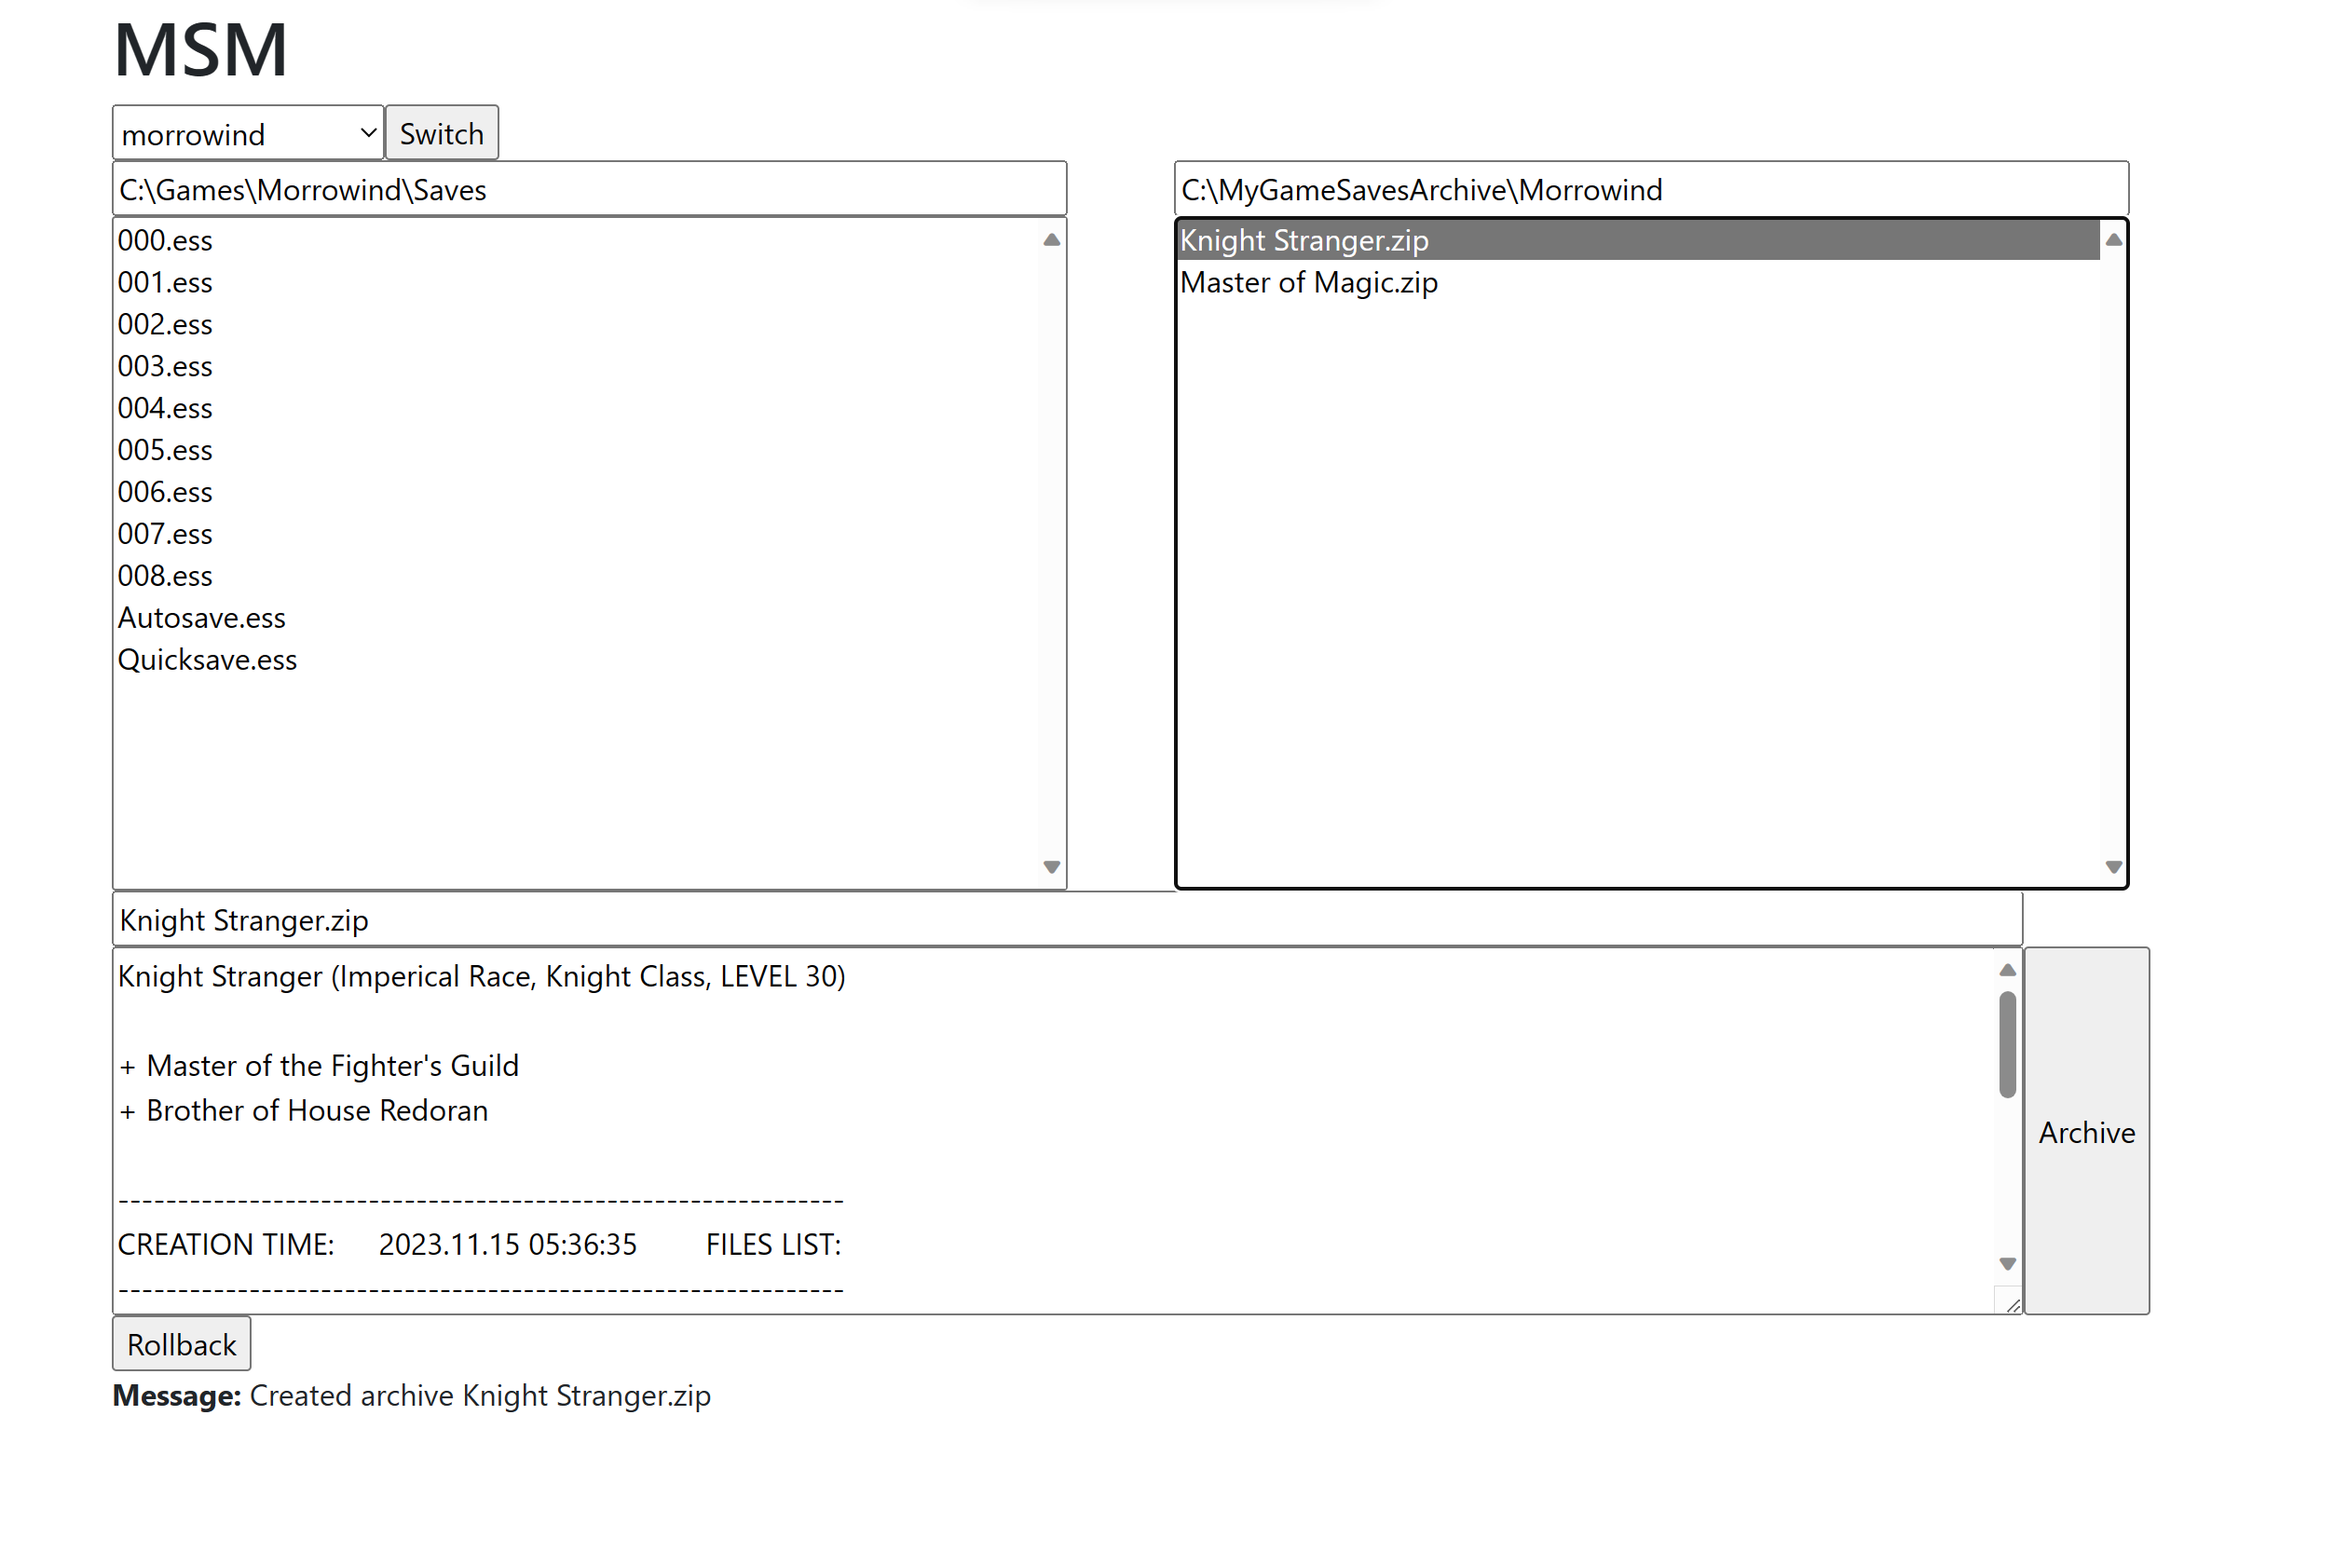
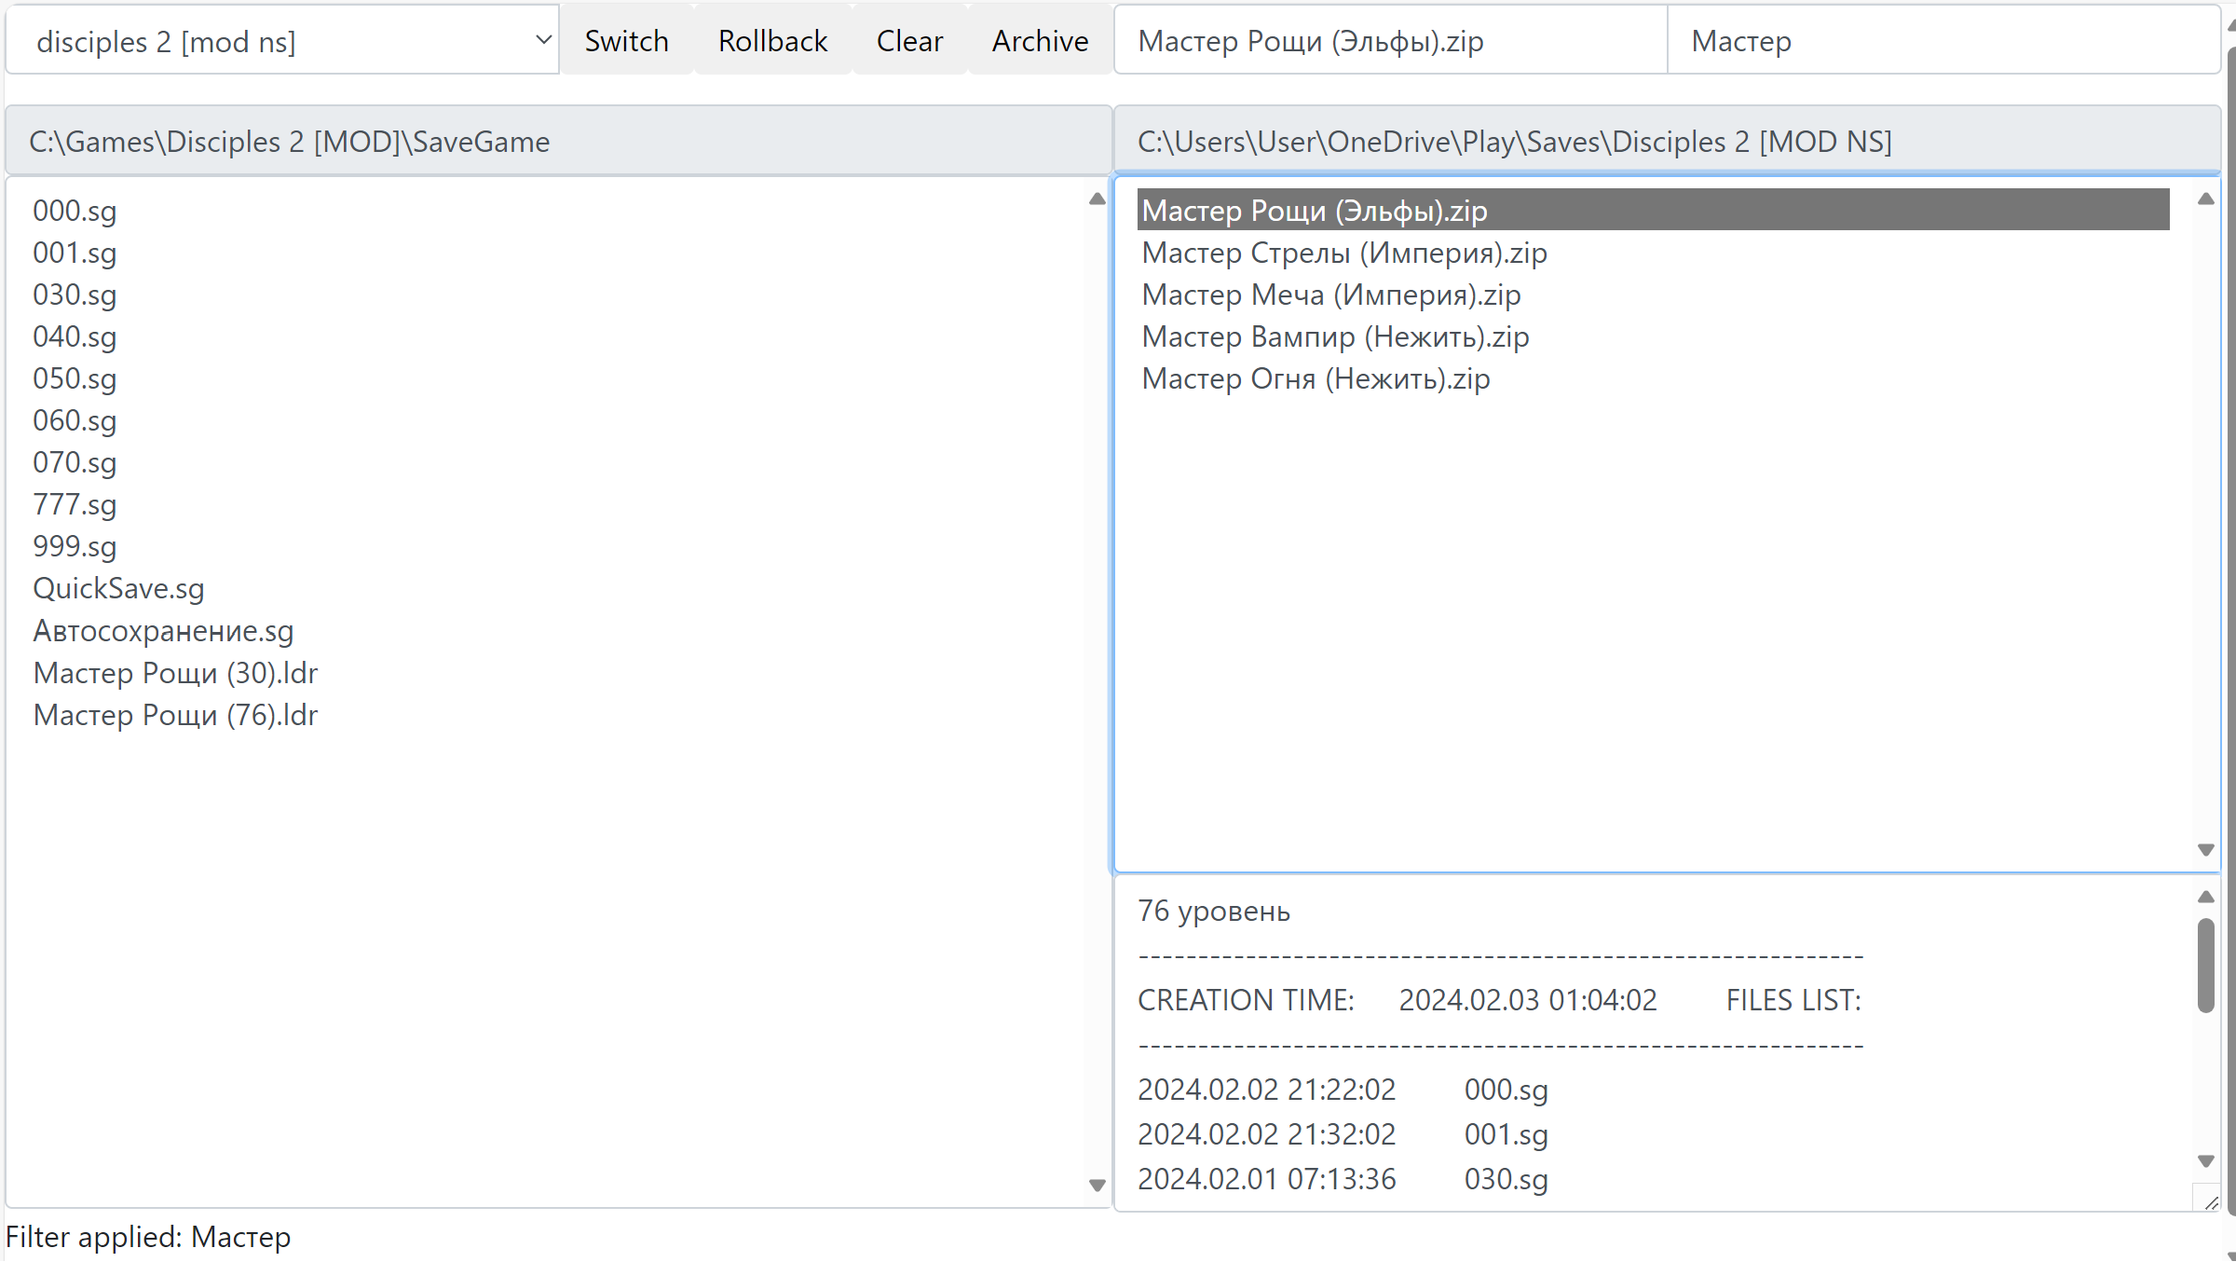
Adaptive Design, Archive Filter

diff --git a/msm/templates/main.html b/msm/templates/main.html
@@ -1,65 +1,106 @@
 <html>
-  <head>
-    <title>MSM</title>
-    <meta name="viewport" content="width=device-width, initial-scale=1.0">
-    <link href="{{ url_for('static', filename='bootstrap.min.css') }}" rel="stylesheet" media="screen">
-    <link rel="shortcut icon" href="{{ url_for('static', filename='favicon.ico') }}">
-  </head>
-  <body>
-    <div class="container">
-      <form action="" method="post">
-        <div class="row">
-          <div class="col">
-            <div class="row">
-              <select name="workspace"><option selected value="{{workspace.name}}">{{workspace.name}}</option>{% for o in workspaces.workspaces %}<option value="{{o.name}}">{{o.name}}</option>{% endfor %}</select>
-              <input type="submit" name="action" value="Switch">
-              <input type="submit" name="action" value="Rollback">
-              <input type="submit" name="action" value="Clear">          
-              <input type="submit" name="action" value="Archive">
-            </div>            
-            <div class="row">
-              <input type="text" placeholder="source_path" name="source_path" value="{{workspace.source_path}}" style="width:100%;max-width:90%;" >
-            </div>
-            <div class="row">
-              <select name="source_files" placeholder="source_files" size="24" style="width:100%;max-width:90%;" multiple="multiple">{% for o in workspace.source_files %}<option value="{{o}}">{{o}}</option>{% endfor %}</select>
+
+<head>
+  <title>MSM</title>
+  <meta name="viewport" content="width=device-width, initial-scale=1.0">
+  <link href="{{ url_for('static', filename='bootstrap.min.css') }}" rel="stylesheet" media="screen">
+  <link rel="shortcut icon" href="{{ url_for('static', filename='favicon.ico') }}">
+</head>
+
+<body>
+  <div class="container-fluid">
+    <form action="" method="post">
+      <div class="row">
+        <div class="col">
+          <div class="row">
+            <div class="input-group mb-3">
+              <select class="form-control" name="workspace">
+                <option selected value="{{workspace.name}}">{{workspace.name}}</option>{% for o in workspaces.workspaces
+                %}<option value="{{o.name}}">{{o.name}}</option>{% endfor %}
+              </select>
+              <input class="btn" type="submit" name="action" value="Switch">
+              <input class="btn" type="submit" name="action" value="Rollback">
+              <input class="btn" type="submit" name="action" value="Clear">
+              <input class="btn" type="submit" name="action" value="Archive">
             </div>
           </div>
-          <div class="col">
-            <div class="row">
-              <input type="text" placeholder="archive_name" name="archive_name" style="width:100%;max-width:90%;" value="{{request.form.archive_name}}">
-            </div>
-            <div class="row">
-              <input type="text" placeholder="archive_path" name="archive_path" value="{{workspace.destination_path}}" style="width:100%;max-width:90%;" >
-            </div>
-            <div class="row">
-              <select name="destination_files" placeholder="destination_files" size="16" style="width:100%;max-width:90%;">{% for o in workspace.destination_files %}<option value="{{o}}">{{o}}</option>{% endfor %}</select>
-            </div>
-            <div class="row">
-              <textarea rows="7" cols="45" placeholder="archive_comment" style="width:100%;max-width:90%;" name="archive_comment">{{request.form.archive_comment}}</textarea>
-            </div>            
+          <div class="row">
+            <input class="form-control" type="text" placeholder="source_path" name="source_path"
+              value="{{workspace.source_path}}" disabled readonly>
+          </div>
+          <div class="row">
+            <select class="form-control" name="source_files" placeholder="source_files" size="24" multiple="multiple">{%
+              for o in workspace.source_files %}<option value="{{o}}">{{o}}</option>{% endfor
+              %}</select>
           </div>
         </div>
-        {% if message %}
+        <div class="col">
           <div class="row">
-            <p class="message"><strong>Message:</strong> {{ message }}
+            <div class="input-group mb-3">
+              <input class="form-control" type="text" placeholder="archive_name" name="archive_name"
+                value="{{request.form.archive_name}}">
+              <input class="form-control" type="text" placeholder="archive_filter" name="archive_filter"
+                value="{{request.form.archive_filter}}">
+            </div>
           </div>
-        {% endif %}
-      </form>
-    </div>
-  </body>
+          <div class="row">
+            <input type="text" class="form-control" placeholder="archive_path" name="archive_path"
+              value="{{workspace.destination_path}}" disabled readonly>
+          </div>
+          <div class="row">
+            <select class="form-control" name="destination_files" placeholder="destination_files" size="16">{% for o in
+              workspace.destination_files %}<option value="{{o}}">{{o}}
+              </option>{% endfor %}</select>
+          </div>
+          <div class="row">
+            <textarea class="form-control" rows="7" cols="45" placeholder="archive_comment"
+              name="archive_comment">{{request.form.archive_comment}}</textarea>
+          </div>
+        </div>
+      </div>
+      {% if message %}
+      <div class="row">
+        <label class="form-label" name="message">{{message}}</label>
+      </div>
+      {% endif %}
+    </form>
+  </div>
   <script src="/static/js/jquery-3.6.1.min.js"></script>
-  <script type=text/javascript>
-          $(function() {
-            $('select[name="destination_files"]').on('change', function(e) {
-              $('input[name="archive_name"]').val($('select[name="destination_files"]').val());
-              e.preventDefault()
-              $.getJSON('/destination_files_callback', {
-                		archive_name: $('input[name="archive_name"]').val(),
-              		}, function(data) {
-                    $('textarea[name="archive_comment"]').val(data.result);
-              });
-              return false;
-            });
-          });
+  <script>
+    $(function () {
+      $('select[name="destination_files"]').on('change', function (e) {
+        $('input[name="archive_name"]').val($('select[name="destination_files"]').val());
+        e.preventDefault()
+        $.getJSON('/destination_files_callback', {
+          archive_name: $('input[name="archive_name"]').val(),
+        }, function (data) {
+          $('textarea[name="archive_comment"]').val(data.result);
+        });
+        return false;
+      });
+    });
   </script>
+  <script>
+    $(function () {
+      $('input[name="archive_filter"]').on('keyup', function (e) {
+        e.preventDefault()
+        var archive_filter = $('input[name="archive_filter"]').val();
+        $.getJSON('/archive_filter_callback', {
+          archive_filter: archive_filter,
+        }, function (data) {
+          if (archive_filter.trim().length > 0) {
+            $('label[name="message"]').html('Filter applied: ' + archive_filter);
+          } else {
+            $('label[name="message"]').html('Filter applied: no filter');
+          }
+          $('select[name="destination_files"]').empty();
+          $.each(data.result, function (index, value) {
+            $('select[name="destination_files"]').append('<option value="' + value + '">' + value + '</option>');
+          });
+        });
+        return false;
+      });
+    });
+  </script>
+</body>
 </html>

diff --git a/msm/msm.py b/msm/msm.py
@@ -31,11 +31,13 @@ class Workspaces:
             func(path)
 
 
-        def update(self):
+        def update(self, name_filter=''):
             if os.path.isdir(self.source_path):
                 self.source_files = os.listdir(self.source_path)
             if os.path.isdir(self.destination_path):
                 self.destination_files = list(map(lambda x: os.path.basename(x), sorted(filter(os.path.isfile, map(lambda x: os.path.join(self.destination_path, x), os.listdir(self.destination_path))), key=os.path.getmtime, reverse=True)))
+                if name_filter:
+                    self.destination_files = list(filter(lambda x: name_filter.lower() in x.lower(), self.destination_files))
             self.archive_name = f'{datetime.now().strftime("%Y%m%d%H%M%S")}.zip'
 
 
@@ -150,6 +152,7 @@ def main():
                 message = f'Cleared backups {result}' if len(result) > 0 else f'Cleared ERROR'
             case _:
                 ...
+    request.form.archive_filter = ''
     return render_template('main.html', workspaces=workspaces, workspace=workspaces.active_workspace, message=message)
 
 
@@ -160,6 +163,14 @@ def destination_files_callback():
     archive_files_formatted = '\n'.join(f'{v}\t{k}' for k, v in archive_files.items())
     result = f'{archive_comment}\n{61*"-"}\nCREATION TIME:\t{archive_datetime}\tFILES LIST:\n{61*"-"}\n{archive_files_formatted}'
     return jsonify(result=result)
+
+
+@app.route('/archive_filter_callback')
+def archive_filter_callback():
+    global workspaces 
+    archive_filter = request.args.get('archive_filter', '', type=str)
+    workspaces.active_workspace.update(archive_filter)
+    return jsonify(result=workspaces.active_workspace.destination_files)
 
 
 if __name__ == '__main__':
